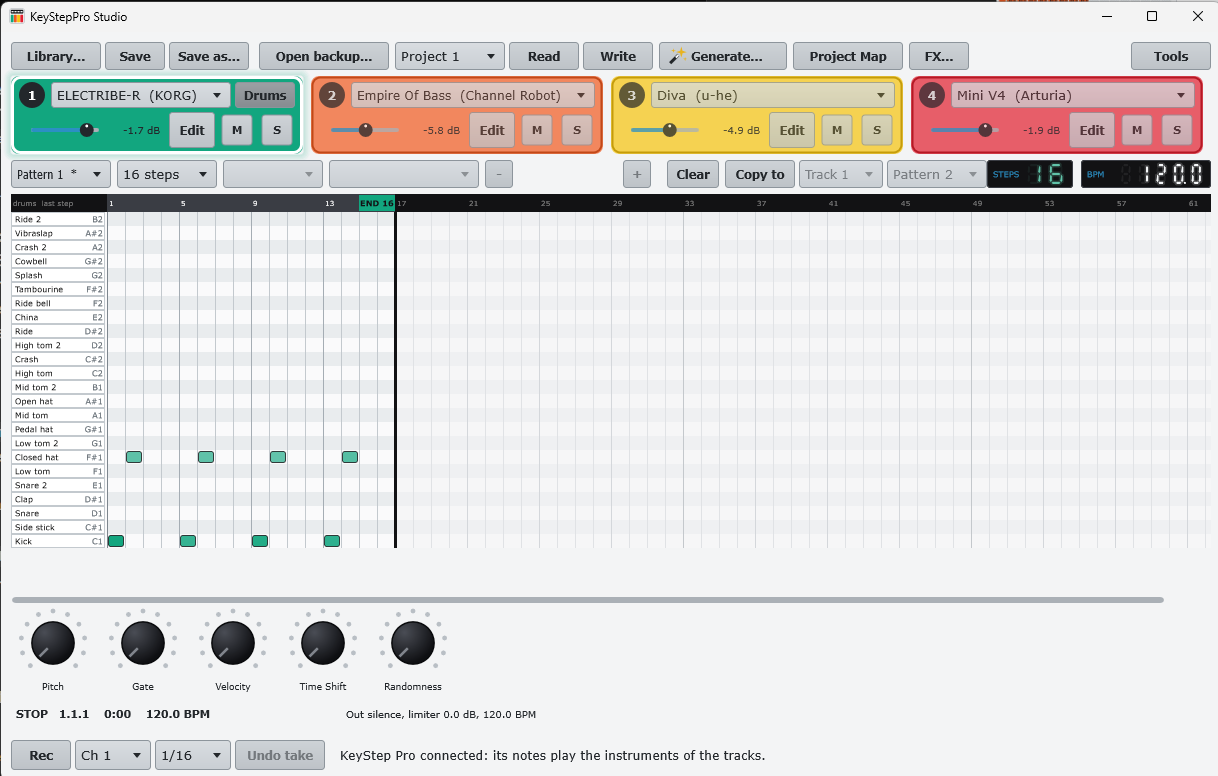
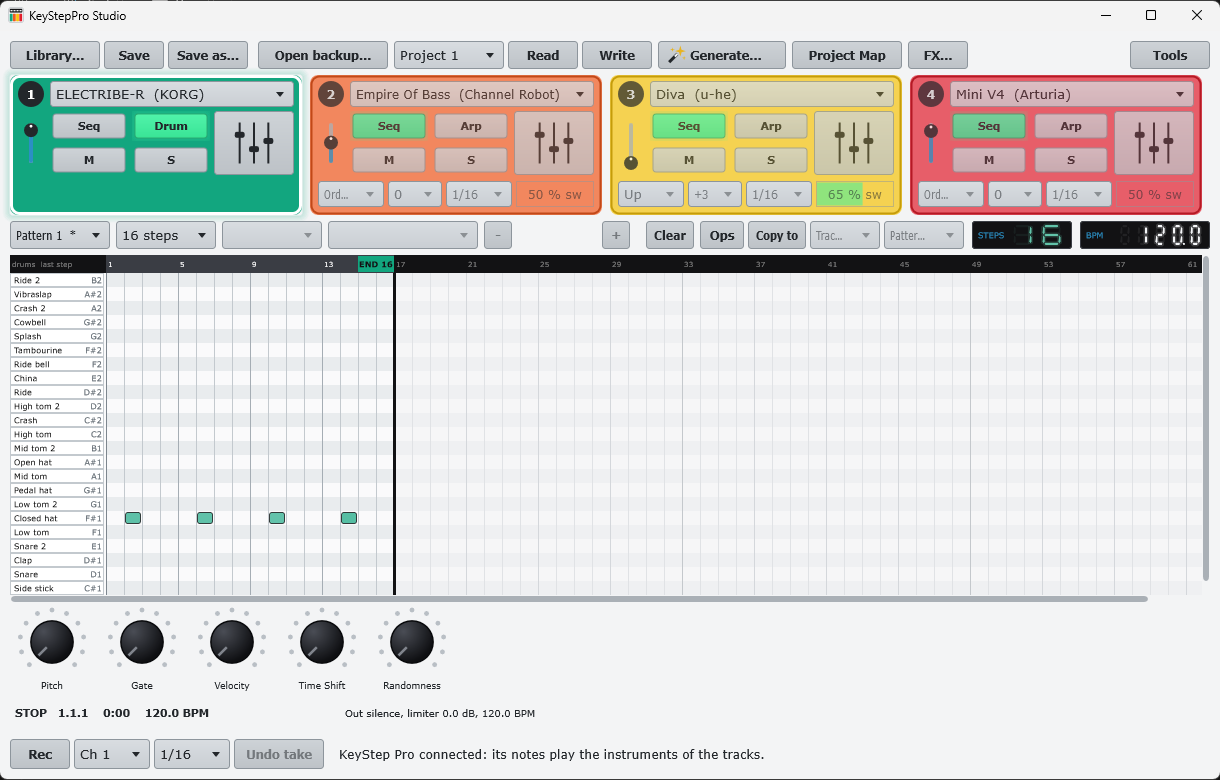
Manual: 0.6.0 screenshots (connect, progress, write confirm, hover card, instruments, close warning)
Claude-Session: https://claude.ai/code/session_01F2632p9y3T3fDhMfxu3Koy

Changed region(s): [[0.0, 0.0309, 1.0, 1.0], [0.9048, 0.0, 1.0, 0.0309], [0.0, 0.0, 0.1248, 0.0309]]

diff --git a/docs/manual/user/SCREENSHOTS.md b/docs/manual/user/SCREENSHOTS.md
@@ -13,7 +13,7 @@ Save as PNG in `img/`, named as below. Add numbered red callouts (1, 2, 3...) ma
 | `shot-grid.png` | 5 (done) | Grid with a few notes, one selected, knobs lit, note names on keys and notes, in-scale rows tinted (callouts as in `img/grid.svg`) |
 | `shot-hover-card.png` | 5 (done) | Hover card beside a step |
 | `shot-end-drag.png` | 5 | END grip on the line, hovered (lit, white outline) with the dimmed area after it |
-| `shot-instruments.png` | 6 (use the main-window shot until a closer one exists) | Four track cards (color per track, one selected, others dimmed) with plugins loaded |
+| `shot-instruments.png` | 6 (done, 0.6.0) | Four track cards (color per track, one selected, others dimmed) with plugins loaded |
 | `shot-plugins.png` | 6 (done) | Plugins... window (Hide column) |
 | `shot-generate.png` | 7 (done) | Generate... window |
 | `shot-library.png` | 8 (done) | Library window with a few projects |

diff --git a/docs/manual/user/06-instruments.md b/docs/manual/user/06-instruments.md
@@ -43,7 +43,7 @@ device; **Test note** plays a C3 on every loaded instrument without the KeyStep.
 limiter sits at the end. The label under the rows shows the output peak, limiter reduction and the BPM read from the
 KeyStep's clock.
 
-> **Screenshots pending:** `shot-instruments.png`, `shot-plugins.png`.
+![Track cards with an instrument loaded; the plugin key opens its window](img/shot-instruments.png)
 
 **Watch out:** a plugin missing on this machine shows **Missing: name** and is kept untouched in the project.
 Plugin latency is not compensated yet.
